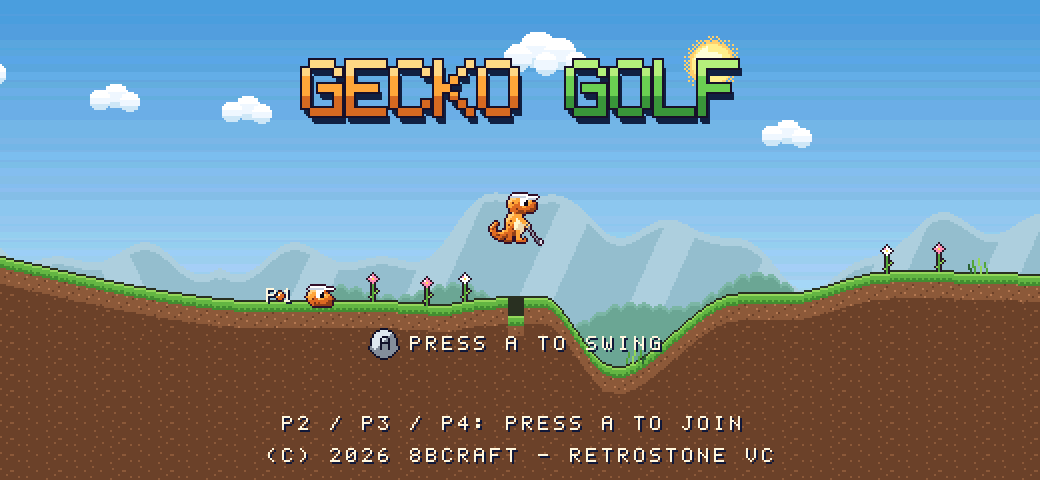
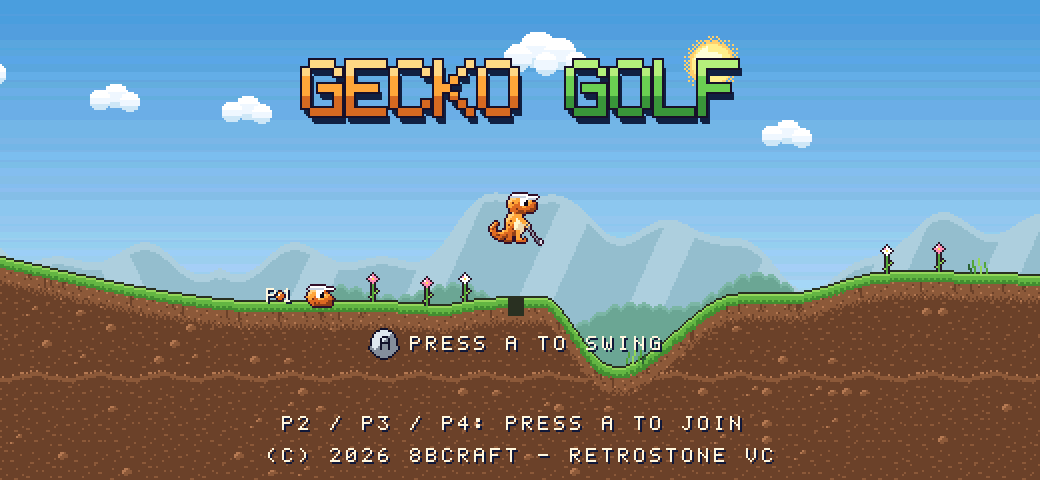
Gecko Golf: the ground's polish (biome seam, cup floor, slopes, cliffs, deep soil)
- The soil at a biome's border fades from one biome's into the other's over 48 px (an
  ordered dither in BG palette 4, which holds both soils) instead of a straight cut down
  the screen; the two terrain palettes follow the biomes at the screen's edges, so a
  biome entering at the edge of a wide screen never shows in a stale palette.
- The cup's floor is dark and the soil under it is level with the green's (no grass,
  sand or frosting band under the cup, no lighter block below it).
- The surface band thickens on steep slopes so it keeps its look instead of thinning
  into steps; a cliff's face is lit facing left and shaded facing right.
- The deep soil: 11 tiles (specks, pebbles, two wavy strata clear of the text rows),
  the topsoil fading into it with an ordered dither, roots under the meadow's and the
  night's grass.
- DESIGN.md, state_audit.txt (deep_tiles), the screenshots retaken.

diff --git a/games/geckogolf/src/draw.c b/games/geckogolf/src/draw.c
@@ -6,11 +6,13 @@
  *   kit's digits, glyphs and medals (OBJ 3), the sky (OBJ 6: clouds, sun, moon, stars, behind the hills), the decor
  *   (OBJ 7).
  * The course: one height per px (play.c); each 8-px column of the screen is cut into tiles: blank above the ground,
- * three shared soil tiles deep below it, and the tiles the surface crosses drawn pixel by pixel (the dark top line,
- * the grass, sand, ice or mushroom band, the water, the cup, the cliffs' outline, the soil), shared when two are the
+ * shared deep soil tiles below it (specks, pebbles, two wavy strata), and the tiles the surface crosses drawn pixel by
+ * pixel (the dark top line, the grass, sand, ice or mushroom band, thicker on a steep slope, the water, the cup, the
+ * cliffs' outline and lit or shaded face, the roots, the topsoil fading into the deep soil), shared when two are the
  * same. They are drawn again only when the camera moves (the pan between holes) or the course changes (a cup dug or
- * filled). Each biome its palette (TERRAIN_PAL): the biome before and the one after a change are BG palettes 1 and 2
- * (by the biome's number along the run), so both show during the pan; the sky, the hills and the clouds blend.
+ * filled). Each biome its palette (TERRAIN_PAL): the biomes at the screen's two edges are BG palettes 1 and 2 (by the
+ * biome's number along the run), so both show during the pan, and the soil fades from one into the other at their
+ * border (BG palette 4 holds both soils, an ordered dither); the sky, the hills and the clouds blend.
  * Widescreen (docs/spec.md "Widescreen", DESIGN.md): the 320-px stage (one hole) is centred (rs_screen_origin) and a
  * wider screen shows more of the course on both sides (the last hole behind, the next one ahead); the UI kit centres
  * itself.
@@ -60,9 +62,20 @@ static const uint32_t SKY_PAL[BI_COUNT][9] = {
 
 #define WATER_D   10            /* px of water drawn under a pond's surface */
 #define POOL_MAX  448           /* the course's tiles that change (shared when the same) */
-#define T_DEEP    1             /* the three deep soil tiles (1..3); the pool after */
-#define T_POOL    4
+#define N_PLAIN   4             /* the deep soil's tiles: plain (specks), pebbles, the strata's wave (4 phases) */
+#define N_PEBBLE  3
+#define N_STRATA  4
+#define N_DEEP    (N_PLAIN + N_PEBBLE + N_STRATA)
+#define T_DEEP    1             /* the deep soil tiles (1..N_DEEP); the pool after */
+#define T_POOL    (T_DEEP + N_DEEP)
 #define HASH_N    1024
+#define TOPSOIL   14            /* px of lighter topsoil under the grass band, then a dithered fade into the deep soil */
+#define BAND_DEEP 22            /* below a column's top (its lip), every pixel is the deep soil's (or a cliff's face) */
+/* the soil between two biomes: near the border the tiles of plain soil fade from one biome's soil into the other's, an
+ * ordered dither over BLEND_W px, in BG palette 4 (free: docs/art-direction.md) holding both soils, so the ground never
+ * shows a straight cut */
+#define PAL_BLEND 4
+#define BLEND_W   48
 
 static rs_color line_col[RS_SCREEN_H];
 static int shown_state = -1, shown_best = -1, shown_ui = -1;
@@ -114,17 +127,100 @@ static uint32_t lerp_hex(uint32_t a, uint32_t b, int k)
 static int map_w(void) { return rs_screen_width() > 496 ? 128 : 64; }
 
 /* ---- the course's tiles ------------------------------------------------------------------------------------------------ */
-static const uint8_t DEEP[3][64] = {
-#define R(a, b, c, d, e, f, g, h) a, b, c, d, e, f, g, h
-    {R(6, 6, 6, 6, 6, 6, 6, 6), R(6, 6, 5, 6, 6, 6, 6, 6), R(6, 6, 6, 6, 6, 6, 6, 6), R(6, 6, 6, 6, 6, 6, 5, 6),
-     R(6, 6, 6, 6, 6, 6, 6, 6), R(6, 6, 6, 6, 6, 6, 6, 6), R(6, 5, 6, 6, 6, 6, 6, 6), R(6, 6, 6, 6, 6, 6, 6, 6)},
-    {R(6, 6, 6, 6, 6, 6, 6, 6), R(6, 6, 6, 6, 6, 6, 6, 6), R(6, 6, 6, 6, 5, 6, 6, 6), R(6, 6, 6, 6, 6, 6, 6, 6),
-     R(6, 6, 6, 6, 6, 6, 6, 6), R(6, 6, 6, 6, 6, 6, 6, 5), R(6, 6, 6, 6, 6, 6, 6, 6), R(6, 6, 6, 5, 6, 6, 6, 6)},
-    {R(6, 6, 6, 6, 6, 6, 6, 6), R(6, 6, 6, 6, 6, 6, 6, 6), R(6, 6, 6, 6, 6, 6, 6, 6), R(6, 5, 5, 6, 6, 6, 6, 6),
-     R(6, 6, 6, 6, 6, 6, 6, 6), R(6, 6, 6, 6, 6, 6, 6, 6), R(6, 6, 6, 6, 6, 5, 6, 6), R(6, 6, 6, 6, 6, 6, 6, 6)}};
-#undef R
+/* the deep soil (colours 4-6 only, so its tiles can take a biome blend's palette): dark soil with specks, pebbles lit
+ * from the top-left, and a wavy stratum every few rows (a 32-px wave over 4 tiles). Made once by draw_init. */
+static uint8_t deep_tiles[N_DEEP][64];
 
-static int deep_var(int32_t tx, int ty) { return (int)(((uint32_t)tx * 7u + (uint32_t)ty * 3u) % 3u); }
+static void deep_make(void)
+{
+    static const uint8_t SPECK[N_PLAIN][3][2] = {{{2, 1}, {6, 3}, {1, 6}}, {{4, 2}, {7, 5}, {3, 7}},
+                                                 {{1, 3}, {5, 6}, {6, 1}}, {{3, 0}, {0, 4}, {5, 4}}};
+    /* the pebbles: 0 the soil, 1 the light top-left, 2 the body, 3 its shaded underside (the topsoil's tone) */
+    static const char *PEBBLE[N_PEBBLE][8] = {
+        {"........", "........", "..112...", ".11222..", ".122223.", "..2233..", "........", "........"},
+        {"........", ".....12.", "....1223", ".....33.", "........", ".12.....", "..3.....", "........"},
+        {"........", "........", "........", "...112..", "..12222.", "..22233.", "...33...", "........"}};
+    for (int v = 0; v < N_DEEP; v++) memset(deep_tiles[v], 6, 64);
+    for (int v = 0; v < N_PLAIN; v++)
+        for (int i = 0; i < 3; i++) {
+            int x = SPECK[v][i][0], y = SPECK[v][i][1];
+            deep_tiles[v][y * 8 + x] = 5;
+            if (i == 2 && x < 7) deep_tiles[v][y * 8 + x + 1] = 5;      /* a 2-px dash */
+        }
+    for (int v = 0; v < N_PEBBLE; v++)
+        for (int y = 0; y < 8; y++)
+            for (int x = 0; x < 8; x++) {
+                char c = PEBBLE[v][y][x];
+                if (c != '.') deep_tiles[N_PLAIN + v][y * 8 + x] = (uint8_t)(c == '1' ? 4 : 5);
+                if (c == '3') deep_tiles[N_PLAIN + v][y * 8 + x] = 6;  /* (the underside reads as the soil's shadow) */
+            }
+    /* the stratum: a 2-px band of the mid tone along a gentle wave, lit on top where it rises */
+    static const int8_t WAVE[32] = {3, 3, 3, 2, 2, 2, 2, 2, 2, 3, 3, 3, 4, 4, 4, 4,
+                                    4, 4, 4, 5, 5, 5, 5, 5, 5, 5, 4, 4, 4, 4, 3, 3};
+    for (int v = 0; v < N_STRATA; v++) {
+        uint8_t *tl = deep_tiles[N_PLAIN + N_PEBBLE + v];
+        for (int x = 0; x < 8; x++) {
+            int X = v * 8 + x, y0 = WAVE[X], yp = WAVE[(X + 31) & 31];
+            tl[y0 * 8 + x] = 5;
+            tl[(y0 + 1) * 8 + x] = 5;
+            if (y0 < yp || (X % 5) == 1) tl[(y0 - 1) * 8 + x] = 4;     /* the light top edge */
+            if ((X % 7) == 3) tl[(y0 + 2) * 8 + x] = 5;                /* crumbs under it */
+        }
+    }
+}
+
+/* the deep tile at tile column tx, row ty: a stratum on rows 16 and 23 (clear of the title's and the hint's text rows), else specks with now and then a pebble */
+static int deep_tile(int32_t tx, int ty)
+{
+    if (ty == 16 || ty == 23) return N_PLAIN + N_PEBBLE + (int)(tx & 3);
+    uint32_t h = (uint32_t)tx * 0x9e3779b1u + (uint32_t)ty * 0x85ebca77u;
+    h ^= h >> 15;
+    h *= 0x2c1b3c6du;
+    h ^= h >> 12;
+    h *= 0x297a2d39u;
+    h ^= h >> 15;
+    if (h % 11u == 0) return N_PLAIN + (int)((h >> 8) % N_PEBBLE);
+    return (int)((h >> 12) % N_PLAIN);
+}
+
+static int deep_px(int32_t wx, int y) { return deep_tiles[deep_tile(wx >> 3, y >> 3)][(y & 7) * 8 + (wx & 7)]; }
+
+/* a column's top as its neighbours see it: a cup's lip, not its floor */
+static int lip_y(const terrain *t, int32_t wx)
+{
+    int y = terrain_y(t, wx);
+    return terrain_surf(t, wx) == SF_CUP ? y - CUP_DEPTH : y;
+}
+
+/* the band's extra thickness on a slope (the grass keeps its look along a steep slope instead of thinning into steps);
+ * none at a cliff's top (a wall in the next two columns) */
+static int band_extra(const terrain *t, int32_t wx)
+{
+    int a = lip_y(t, wx + 2) - lip_y(t, wx - 2);
+    if (a < 0) a = -a;
+    return a > 16 ? 0 : a / 2 > 6 ? 6 : a / 2;
+}
+
+/* a root under the grass at world x: its length (2-5 px), or 0 (about one column in 11) */
+static int root_len(int32_t wx)
+{
+    uint32_t h = (uint32_t)wx * 0x9e3779b1u;
+    h ^= h >> 16;
+    h *= 0x85ebca6bu;
+    h ^= h >> 13;
+    return h % 11u == 0 ? 2 + (int)((h >> 8) & 3) : 0;
+}
+
+/* the soil at depth d under the band:the topsoil (lighter, specks), an ordered-dither fade, the deep soil */
+static int soil_px(int32_t wx, int y, int d)
+{
+    int top = ((wx * 7 + y * 3) % 19 == 0) ? 4 : ((wx * 11 + y * 5) % 23 == 0) ? 6 : 5;
+    if (d < TOPSOIL - 2) return top;
+    if (d == TOPSOIL - 2) return ((wx + 2 * y) & 3) == 0 ? 6 : top;
+    if (d == TOPSOIL - 1) return ((wx + y) & 1) ? 6 : top;
+    if (d == TOPSOIL) return ((wx + 2 * y) & 3) == 0 ? top : deep_px(wx, y);
+    return deep_px(wx, y);
+}
 
 /* the colour index of the course at world x, screen y */
 static int course_px(const terrain *t, int32_t wx, int y)
@@ -133,38 +229,49 @@ static int course_px(const terrain *t, int32_t wx, int y)
     if (s == SF_CUP) {
         int lip = top - CUP_DEPTH;
         if (y < lip) return 0;
-        if (y < top) return 15;                         /* the cup: dark */
-    } else if (y < top) {
-        return 0;
+        if (y <= top) return 15;                        /* the cup: dark, its floor too */
+        return soil_px(wx, y, y - lip);                 /* under it the soil, level with the green's */
     }
+    if (y < top) return 0;
     int d = y - top;
     if (s == SF_WATER) {
         if (d == 0) return 13;
         if (d < WATER_D) return ((wx * 3 + y * 5) % 17 == 0) ? 13 : 14;
         if (d == WATER_D) return 15;
+        return soil_px(wx, y, d);
     }
-    int nl = terrain_y(t, wx - 1), nr = terrain_y(t, wx + 1);
-    if (terrain_surf(t, wx - 1) == SF_CUP) nl -= CUP_DEPTH;
-    if (terrain_surf(t, wx + 1) == SF_CUP) nr -= CUP_DEPTH;
-    if (d > 0 && s != SF_WATER && (y < nl || y < nr)) return 15;   /* a cliff's side */
+    int nl = lip_y(t, wx - 1), nr = lip_y(t, wx + 1);
+    if (d > 0 && (y < nl || y < nr)) return 15;         /* a cliff's side */
     if (d == 0) return 15;
-    if (d <= 5) {
+    int ex = band_extra(t, wx), band = 5 + ex;
+    if (d <= band) {
+        int mid = 1 + (band - 1) / 2;                   /* 3 on the flat */
         switch (s) {
-        case SF_SAND: return (d == 5 || ((wx * 5 + y * 3) % 7 == 0)) ? 8 : 7;
-        case SF_ICE: return d == 1 ? 9 : (d < 5 && ((wx + y * 2) % 9 == 0)) ? 9 : 10;
+        case SF_SAND: return (d == band || ((wx * 5 + y * 3) % 7 == 0)) ? 8 : 7;
+        case SF_ICE: return d == 1 ? 9 : (d < band && ((wx + y * 2) % 9 == 0)) ? 9 : 10;
         case SF_MUSH: return ((wx * 3 + y * 5) % 6 == 0 && d > 1) ? 12 : 11;
-        case SF_WATER: break;
         default:
             if (d == 1) return 1;
-            if (biome_of_seq(terrain_seq(t, wx)) == BI_CANDY && d >= 2 && d <= 4 && (wx * 7 + y * 5) % 11 == 0)
+            if (biome_of_seq(terrain_seq(t, wx)) == BI_CANDY && d >= 2 && d < band && (wx * 7 + y * 5) % 11 == 0)
                 return (wx & 1) ? 11 : 9;               /* sprinkles in the frosting */
-            if (d <= 3) return 2;
-            return (d == 4 && (wx % 3) == 0) ? 2 : 3;
+            if (d <= mid) return 2;
+            return (d == mid + 1 && (wx % 3) == 0) ? 2 : 3;
         }
     }
-    if (s == SF_MUSH && d <= 8) return 12;
-    if (d < 14) return ((wx * 7 + y * 3) % 19 == 0) ? 4 : ((wx * 11 + y * 5) % 23 == 0) ? 6 : 5;
-    return DEEP[deep_var(wx >> 3, y >> 3)][(y & 7) * 8 + (wx & 7)];
+    if (s == SF_MUSH && d <= band + 3) return 12;
+    /* a cliff's face, the column inside its outline: lit when it faces left (the light from the top-left), in shade
+     * when it faces right */
+    if (y < lip_y(t, wx - 2)) return 4;
+    if (y < lip_y(t, wx + 2)) return 6;
+    /* the grass's roots in the topsoil (the meadow, the night course): a thread down, a step aside at its end */
+    if (s == SF_GRASS && d - band <= 6) {
+        int bio = biome_of_seq(terrain_seq(t, wx));
+        if (bio == BI_MEADOW || bio == BI_NIGHT) {
+            int r0 = root_len(wx), r1 = root_len(wx - 1);
+            if ((r0 && d - band <= r0) || (r1 && d - band == r1 + 1)) return 6;
+        }
+    }
+    return soil_px(wx, y, d - ex);
 }
 
 static int pool_tile(const uint8_t *px)
@@ -183,6 +290,24 @@ static int pool_tile(const uint8_t *px)
     return T_POOL + pool_n++;
 }
 
+/* a tile of plain soil (colours 4-6) at x0 px from a biome's border (the right biome from 0): the right biome's pixels
+ * become 7-9 (PAL_BLEND holds the left soil at 4-6, the right soil at 7-9), by a 4x4 ordered dither over BLEND_W px,
+ * the border a little ragged from row to row; returns the right biome's pixel count */
+static int blend_tile(uint8_t *px, int32_t x0, int r)
+{
+    static const uint8_t BAYER[16] = {0, 8, 2, 10, 12, 4, 14, 6, 3, 11, 1, 9, 15, 7, 13, 5};
+    int wob = (int)((((uint32_t)r * 2654435761u) >> 27) % 9u) - 4, n = 0;
+    for (int y = 0; y < 8; y++)
+        for (int x = 0; x < 8; x++) {
+            int dx = (int)x0 + x + wob + BLEND_W / 2, lv = dx <= 0 ? 0 : dx >= BLEND_W ? 17 : dx * 17 / BLEND_W;
+            if (BAYER[(y & 3) * 4 + (int)((x0 + x) & 3)] < lv) {
+                px[y * 8 + x] = (uint8_t)(px[y * 8 + x] + 3);
+                n++;
+            }
+        }
+    return n;
+}
+
 static void course_build(const world *w)
 {
     const terrain *t = &w->tr;
@@ -196,34 +321,50 @@ static void course_build(const world *w)
     for (int c = 0; c < cols; c++) {
         int32_t wt = wt0 + c, bx = wt * 8;
         int lo = 999, hi = -999;
-        for (int x = -1; x <= 8; x++) {
-            int top = terrain_y(t, bx + x);
-            if (terrain_surf(t, bx + x) == SF_CUP) top -= CUP_DEPTH;
-            if (x >= 0 && x < 8) {
-                if (top < lo) lo = top;
-                if (top + 14 > hi) hi = top + 14;
-            }
-            if (top > hi && x >= 0 && x < 8) hi = top;
-        }
-        /* a cliff next to this column: its side runs down to the lower neighbour's top */
         for (int x = 0; x < 8; x++) {
-            int nl = terrain_y(t, bx + x - 1), nr = terrain_y(t, bx + x + 1);
-            if (nl > hi) hi = nl;
-            if (nr > hi) hi = nr;
+            int top = lip_y(t, bx + x);
+            if (top < lo) lo = top;
+            if (top + BAND_DEEP > hi) hi = top + BAND_DEEP;
+        }
+        /* a cliff next to this column: its side and its face run down to the lower neighbours' tops */
+        for (int x = -2; x < 10; x++) {
+            int n = terrain_y(t, bx + x);
+            if (n > hi) hi = n;
         }
         int seq = terrain_seq(t, bx + 4);
         int pal = (seq & 1) ? PAL_TERRAIN_B : PAL_TERRAIN_A;
+        /* near a biome's border, the plain soil fades from one biome's into the other's (ordered dither) */
+        int32_t xb = 0;
+        int reach = BLEND_W / 2 + 12;
+        int sl = terrain_seq(t, bx + 4 - reach), sr = terrain_seq(t, bx + 4 + reach), near = 1;
+        if (sl != seq) for (xb = bx + 4 - reach; terrain_seq(t, xb) != seq; xb++) {}
+        else if (sr != seq) for (xb = bx + 4; terrain_seq(t, xb) == seq; xb++) {}
+        else near = 0;
+        int pal_l = (sl & 1) ? PAL_TERRAIN_B : PAL_TERRAIN_A, pal_r = (sr & 1) ? PAL_TERRAIN_B : PAL_TERRAIN_A;
         int mx = (int)(((wt % mw) + mw) % mw);
         for (int r = 0; r < 30; r++) {
-            int tile;
-            if (r * 8 + 7 < lo) tile = 0;
-            else if (r * 8 >= hi) tile = T_DEEP + deep_var(wt, r);
-            else {
+            int tile = -1, soil = 1, p = pal;
+            if (r * 8 + 7 < lo) tile = 0, soil = 0;
+            else if (r * 8 >= hi) {
+                tile = T_DEEP + deep_tile(wt, r);
+                memcpy(px, deep_tiles[tile - T_DEEP], 64);
+            } else {
                 for (int y = 0; y < 8; y++)
-                    for (int x = 0; x < 8; x++) px[y * 8 + x] = (uint8_t)course_px(t, bx + x, r * 8 + y);
-                tile = pool_tile(px);
+                    for (int x = 0; x < 8; x++) {
+                        int v = course_px(t, bx + x, r * 8 + y);
+                        px[y * 8 + x] = (uint8_t)v;
+                        if (v < 4 || v > 6) soil = 0;
+                    }
             }
-            rs_bg_put(RS_BG2, mx, r, RS_MAP(tile, pal, 0, 0, 0));
+            if (near && soil) {
+                int n_r = blend_tile(px, bx - xb, r);
+                if (n_r == 64) p = pal_r;
+                else if (n_r == 0) p = pal_l;
+                else p = PAL_BLEND, tile = pool_tile(px);
+                if (n_r == 64) for (int i = 0; i < 64; i++) px[i] = (uint8_t)(px[i] - 3);
+            }
+            if (tile < 0) tile = pool_tile(px);
+            rs_bg_put(RS_BG2, mx, r, RS_MAP(tile, p, 0, 0, 0));
         }
     }
     drawn_cam = w->view_cam;
@@ -259,7 +400,8 @@ void draw_init(void)
     hu_init(&hc);
     uint8_t blank[64] = {0};
     rs_tiles_load8(VR_BG2, blank, 1);
-    rs_tiles_load8(VR_BG2 + T_DEEP, &DEEP[0][0], 3);
+    deep_make();
+    rs_tiles_load8(VR_BG2 + T_DEEP, &deep_tiles[0][0], N_DEEP);
     rs_tiles_load(VR_BG3, gm_bg3_tiles, gm_bg3_tile_count);
     maps_setup();
     for (int l = 0; l < 3; l++) rs_bg_enable(l, 1);
@@ -305,14 +447,20 @@ static void biome_blend(const world *w, blend *bl)
 
 static void palettes(const world *w, const blend *bl)
 {
-    /* the course: the two biomes on screen (by their number's parity) */
-    int seqs[2] = {bl->seq_a, bl->seq_b};
+    /* the course: the biomes at the screen's two edges (by their number's parity; the tiles drawn reach 8 px past the
+     * edges, a border's blend 40 px further), and the two blends between them for the soil at their border */
+    int32_t wx0 = w->view_cam + rs_screen_left();
+    int seqs[2] = {terrain_seq(&w->tr, wx0 - 48), terrain_seq(&w->tr, wx0 + rs_screen_width() + 56)};
     for (int i = 0; i < 2; i++) {
         int bio = biome_of_seq(seqs[i]), pal = (seqs[i] & 1) ? PAL_TERRAIN_B : PAL_TERRAIN_A;
         for (int c = 0; c < 15; c++) rs_pal_set(RS_PAL_BG(pal) + 1 + c, hexc(TERRAIN_PAL[bio][c]));
         /* the water shimmers: its light colour breathes */
         int ph = (w->t / 6) % 16, k = ph < 8 ? ph * 10 : (16 - ph) * 10;
         rs_pal_set(RS_PAL_BG(pal) + 13, hexc(lerp_hex(TERRAIN_PAL[bio][12], 0xffffff, k)));
+    }
+    for (int c = 0; c < 3; c++) {
+        rs_pal_set(RS_PAL_BG(PAL_BLEND) + 4 + c, hexc(TERRAIN_PAL[biome_of_seq(seqs[0])][3 + c]));
+        rs_pal_set(RS_PAL_BG(PAL_BLEND) + 7 + c, hexc(TERRAIN_PAL[biome_of_seq(seqs[1])][3 + c]));
     }
     for (int c = 0; c < 5; c++) rs_pal_set(RS_PAL_BG(PAL_HILLS) + 1 + c, hexc(lerp_hex(HILL_PAL[bl->a][c], HILL_PAL[bl->b][c], bl->k)));
     for (int c = 0; c < 9; c++) rs_pal_set(RS_PAL_OBJ(OBJ_PAL_SKY) + 1 + c, hexc(lerp_hex(SKY_PAL[bl->a][c], SKY_PAL[bl->b][c], bl->k)));

diff --git a/games/geckogolf/DESIGN.md b/games/geckogolf/DESIGN.md
@@ -113,11 +113,15 @@ does not count). tests/touch_test.sh checks it at 320, 427, 520 and 560.
 | BG1 | the house UI kit: the logo, the messages, the hint, the panels, PAUSED | fixed |
 | OBJ | the gecko, the balls, the flag, the aim's dots, the gauge, the stakes, the splash, the decor, the kit's digits, glyphs and medals | |
 
-**The course's tiles**: each 8-px column of the screen is cut into tiles: blank above the ground, three shared soil
-tiles deep below it, and the tiles the surface crosses drawn pixel by pixel (the dark top line, the grass, sand, ice
-or mushroom band, the water, the cup, the cliffs' outline, the soil), shared when two are the same (about 150-300
-tiles a screen). They are drawn again only when the camera moves (the pan) or the course changes (a cup dug or
-filled). Two BG palettes (1, 2) hold the biome before and after a change, so both show during the pan.
+**The course's tiles**: each 8-px column of the screen is cut into tiles: blank above the ground, 11 shared deep soil
+tiles below it (specks, pebbles lit from the top-left, two wavy strata at rows 16 and 23, clear of the text rows),
+and the tiles the surface crosses drawn pixel by pixel (the dark top line, the grass, sand, ice or mushroom band,
+thicker on a steep slope so it keeps its look, the water, the cup, the cliffs' outline and their face lit facing left
+or shaded facing right, roots under the meadow's and the night's grass, the topsoil fading into the deep soil with an
+ordered dither), shared when two are the same (about 200-320 tiles a screen, of 448). They are drawn again only when
+the camera moves (the pan) or the course changes (a cup dug or filled). Two BG palettes (1, 2) hold the biomes at the
+screen's two edges, so both show during the pan; at their border the soil fades from one biome's into the other's over
+48 px (an ordered dither, in BG palette 4, which holds both soils), never a straight cut.
 
 **Widescreen** (docs/spec.md "Widescreen"): the 320-px stage (one hole) is centred; a wider screen (427, 520) shows
 more of the course on both sides: the last hole behind, the next one ahead (no flag there yet: a cup is dug when its
